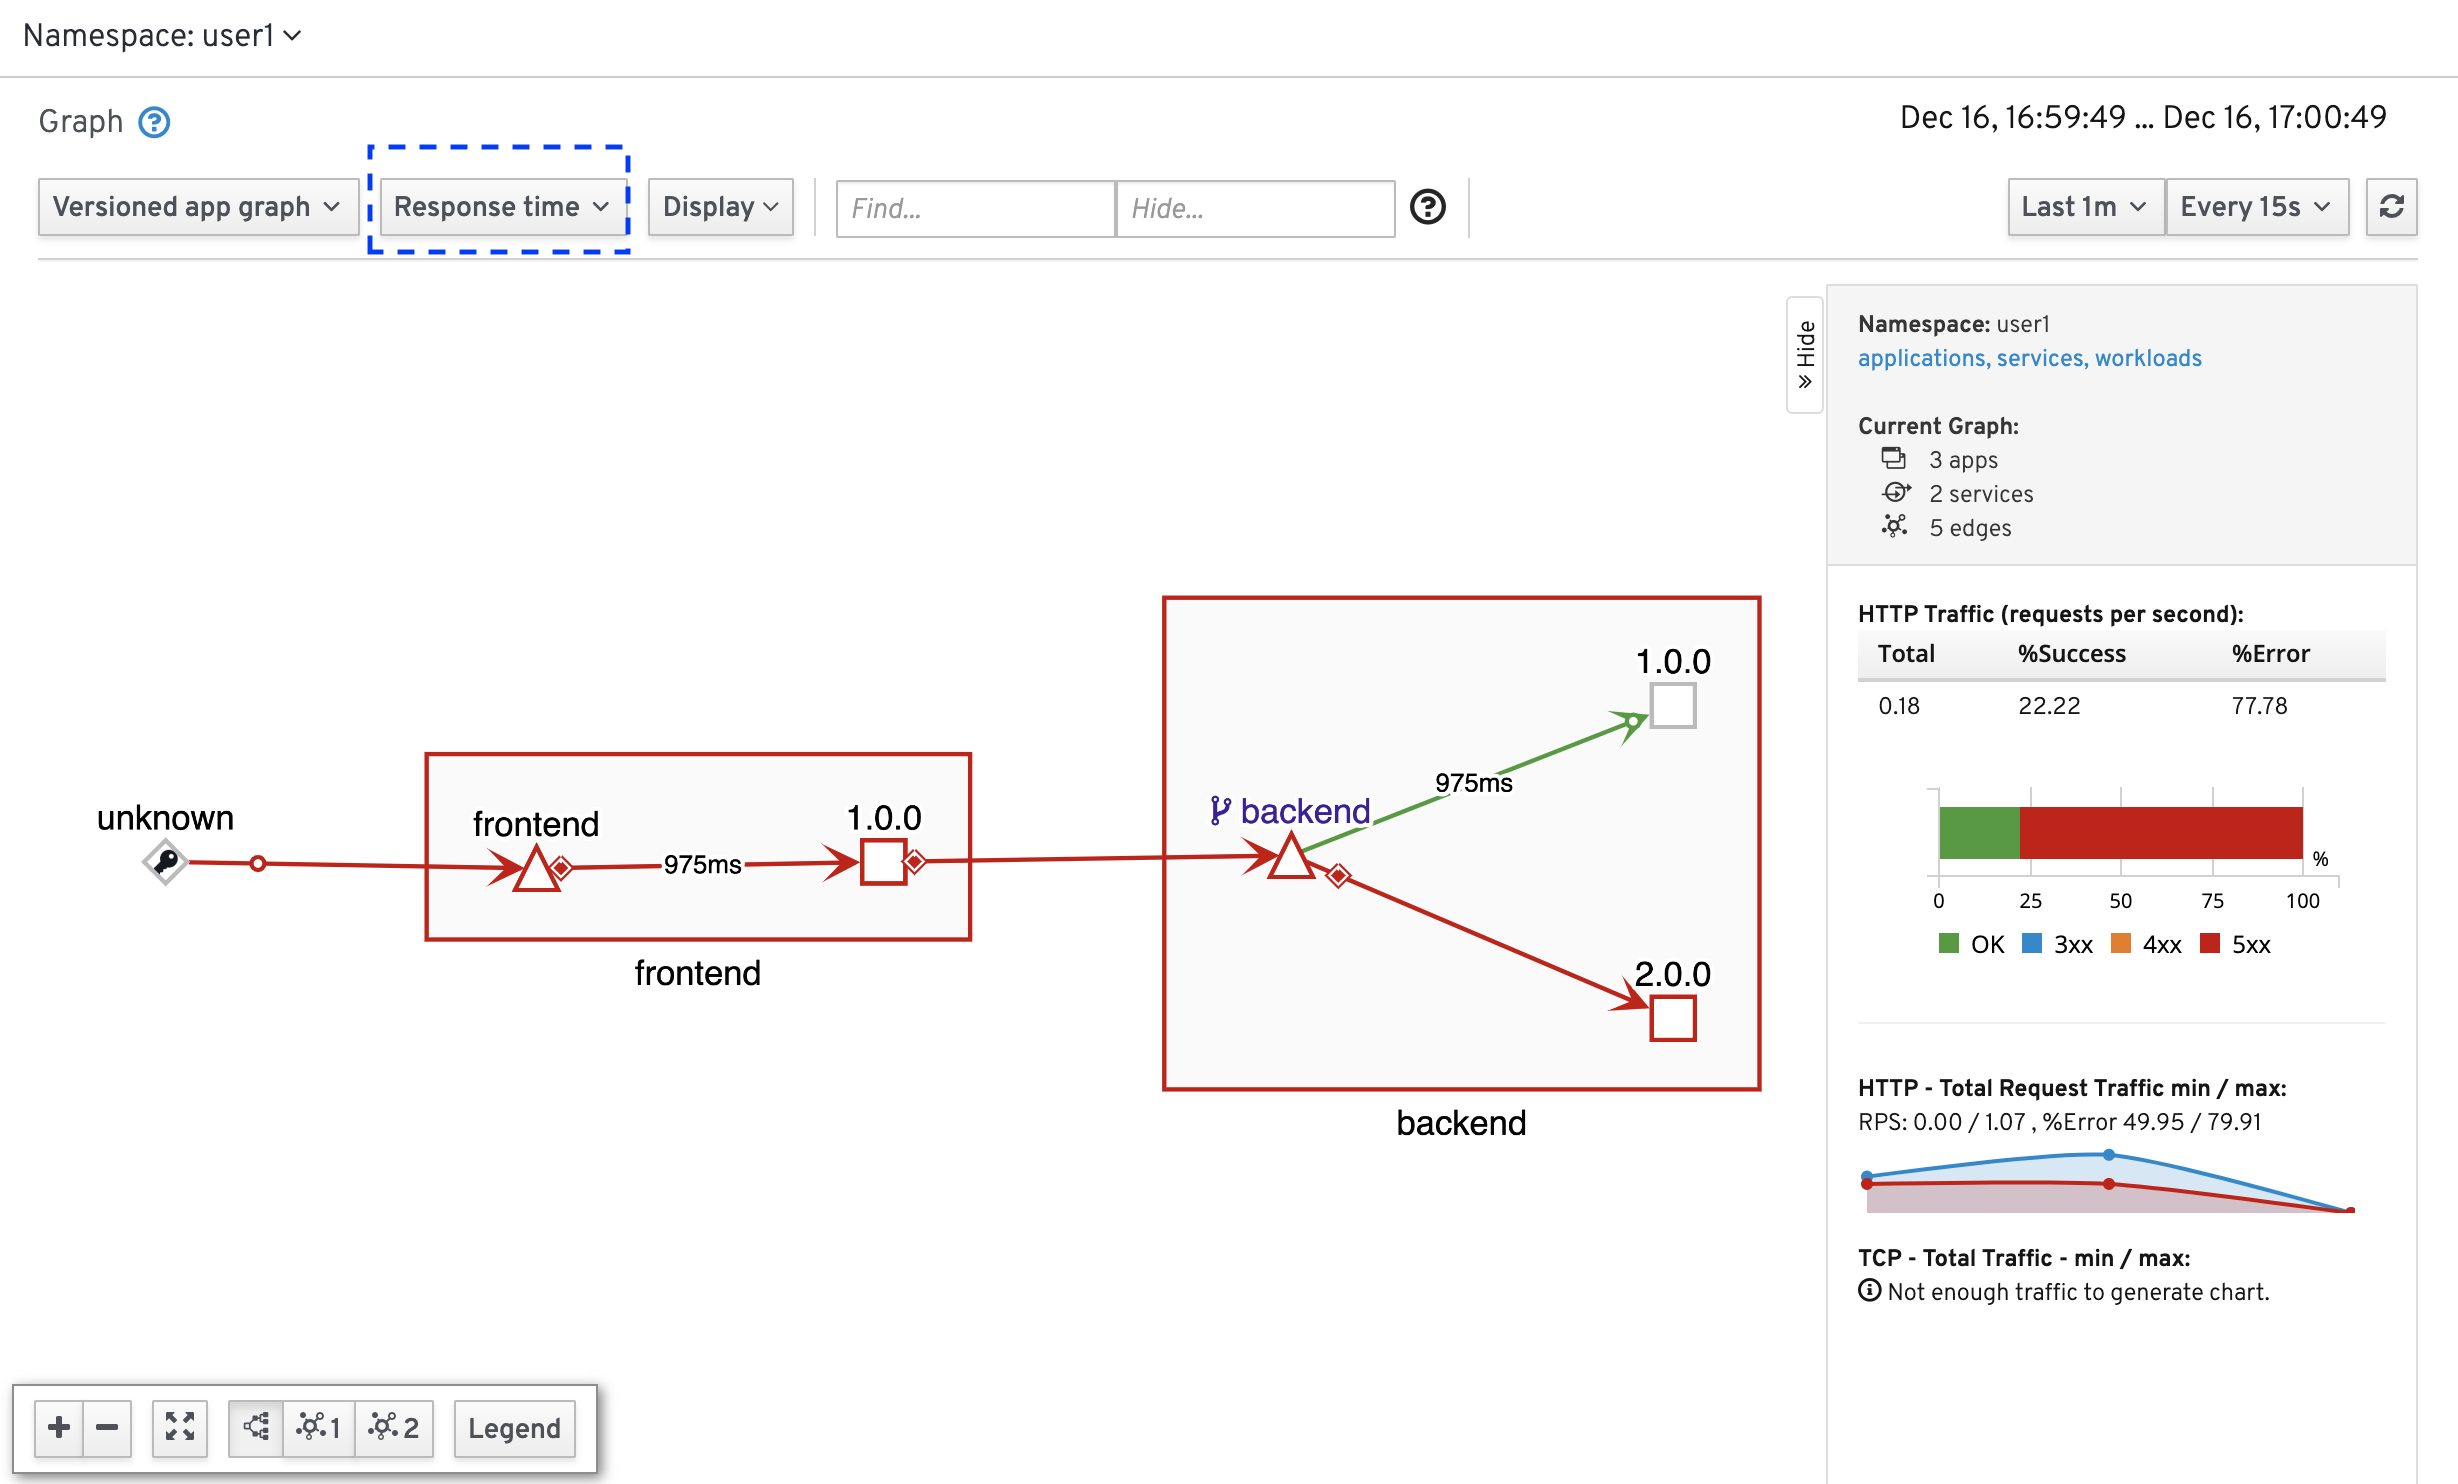
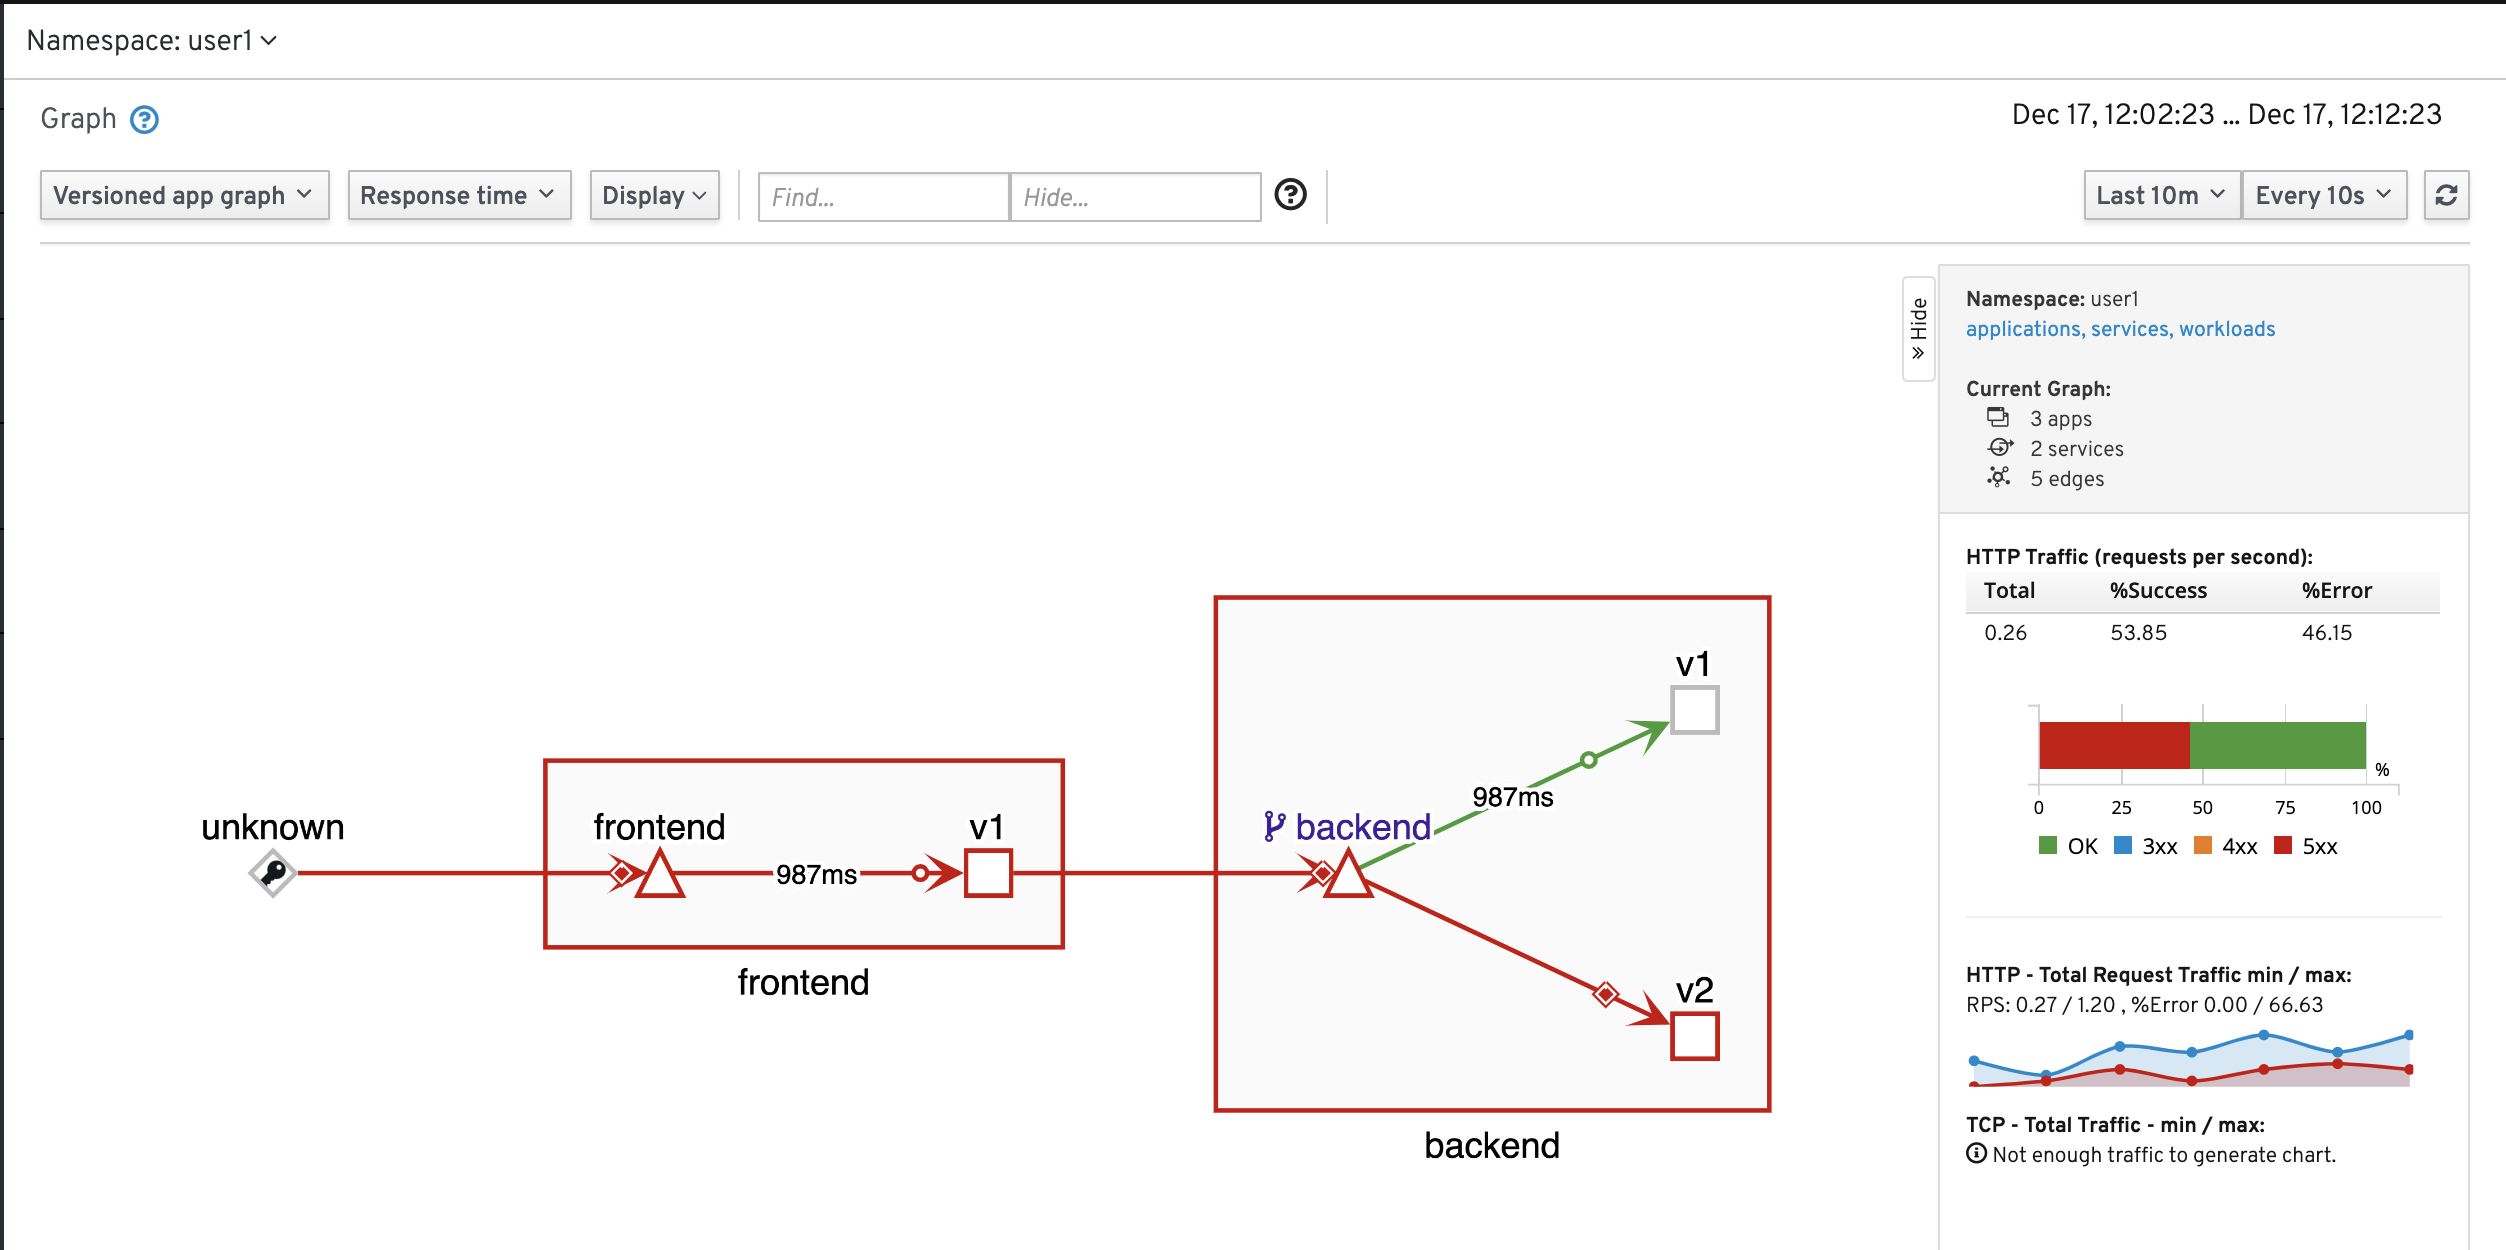
Change version to v1 and v2

diff --git a/labs/03-dynamic-routing.md b/labs/03-dynamic-routing.md
@@ -29,20 +29,20 @@ spec:
   - name: v1
     labels:
       app: backend
-      version: 1.0.0
+      version: v1
     trafficPolicy:
       loadBalancer:
         simple: ROUND_ROBIN
   - name: v2
     labels:
       app: backend
-      version: 2.0.0
+      version: v2
     trafficPolicy:
       loadBalancer:
         simple: ROUND_ROBIN
 ```
 ### Virtual Service
-Review the following Istio's  virtual service configuration file [virtual-service-backend-v1-v2-80-20.yml](../istio-files/virtual-service-backend-v1-v2-80-20.yml) to route 80% of traffic to version 1.0.0 and 20% of traffic to version 2.0.0
+Review the following Istio's  virtual service configuration file [virtual-service-backend-v1-v2-80-20.yml](../istio-files/virtual-service-backend-v1-v2-80-20.yml) to route 80% of traffic to version v1 and 20% of traffic to version v2
 
 ```
 apiVersion: networking.istio.io/v1alpha3
@@ -91,15 +91,19 @@ Sample output
 
 ```
 ...
-Backend:2.0.0 Elapsed Time:5.873382 sec
-Backend:1.0.0 Elapsed Time:0.868324 sec
-Backend:1.0.0 Elapsed Time:0.813940 sec
-Backend:1.0.0 Elapsed Time:0.793226 sec
-Backend:1.0.0 Elapsed Time:0.849677 sec
+Backend:v1, Response Code: 200, Host:backend-v1-6ddf9c7dcf-pppzc, Elapsed Time:0.890935 sec
+Backend:v1, Response Code: 200, Host:backend-v1-6ddf9c7dcf-pppzc, Elapsed Time:1.084210 sec
+Backend:v1, Response Code: 200, Host:backend-v1-6ddf9c7dcf-pppzc, Elapsed Time:0.952610 sec
+Backend:v2, Response Code: 200, Host:backend-v2-7655885b8c-5spv4, Elapsed Time:5.823382 sec
+Backend:v2, Response Code: 200, Host:backend-v2-7655885b8c-5spv4, Elapsed Time:5.805121 sec
+Backend:v1, Response Code: 200, Host:backend-v1-6ddf9c7dcf-pppzc, Elapsed Time:0.778479 sec
+Backend:v1, Response Code: 200, Host:backend-v1-6ddf9c7dcf-pppzc, Elapsed Time:0.856198 sec
+Backend:v2, Response Code: 200, Host:backend-v2-7655885b8c-5spv4, Elapsed Time:5.993813 sec
+Backend:v1, Response Code: 200, Host:backend-v1-6ddf9c7dcf-pppzc, Elapsed Time:0.787655 sec
 ========================================================
 Total Request: 50
-Version 1.0.0: 43
-Version 2.0.0: 7
+Version v1: 39
+Version v2: 11
 ========================================================
 ```
 You can also check this splitting traffic with Kiali console.
@@ -146,14 +150,14 @@ virtualservice.networking.istio.io/backend-virtual-service created
 
 ```
 
-Test again with cURL and check for 504 response code from backend version 2.0.0
+Test again with cURL and check for 504 response code from backend version v2
 ```
 curl $FRONTEND_URL
 ```
 
 Result
 ```
-Frontend version: 1.0.0 => [Backend: http://backend:8080, Response: 504, Body: upstream request timeout]
+Frontend version: v1 => [Backend: http://backend:8080, Response: 504, Body: upstream request timeout]
 ```
 
 Run [run-50.shj](../scripts/run-50.sh)
@@ -163,12 +167,19 @@ scripts/run-50.sh
 
 Sample output
 ```
-Backend:, Response Code: 504, Host:, Elapsed Time:3.878352 sec
-Backend:1.0.0, Response Code: 200, Host:backend-v1-84b98cf86c-hjf65, Elapsed Time:1.558571 sec
-Backend:, Response Code: 504, Host:, Elapsed Time:3.556231 sec
-Backend:1.0.0, Response Code: 200, Host:backend-v1-84b98cf86c-hjf65, Elapsed Time:1.681229 sec
-Backend:1.0.0, Response Code: 200, Host:backend-v1-84b98cf86c-hjf65, Elapsed Time:1.573688 sec
-Backend:, Response Code: 504, Host:, Elapsed Time:4.295051 sec
+...
+Backend:v1, Response Code: 200, Host:backend-v1-6ddf9c7dcf-pppzc, Elapsed Time:0.774024 sec
+Backend:, Response Code: 504, Host:, Elapsed Time:3.193873 sec
+Backend:v1, Response Code: 200, Host:backend-v1-6ddf9c7dcf-pppzc, Elapsed Time:0.787584 sec
+Backend:, Response Code: 504, Host:, Elapsed Time:3.724406 sec
+Backend:, Response Code: 504, Host:, Elapsed Time:3.147017 sec
+Backend:, Response Code: 504, Host:, Elapsed Time:3.207459 sec
+========================================================
+Total Request: 50
+Version v1: 25
+Version v2: 0
+========================================================
+...
 ```
 
 Check Graph in Kiali Console with Response time.

diff --git a/labs/01-microservice-deployment.md b/labs/01-microservice-deployment.md
@@ -33,7 +33,7 @@ spec:
     metadata:
       labels:
         app: backend
-        version: 1.0.0
+        version: v1
       annotations:
         sidecar.istio.io/inject: "true"
 ...
@@ -107,9 +107,9 @@ curl $FRONTEND_URL
 
 Sample outout
 ```
-Frontend version: 1.0.0 => [Backend: http://backend:8080, Response: 200, Body: Backend version:1.0.0,Response:200,Host:backend-v1-66f48cff87-gcfxz, Message: Hello World!!]
+Frontend version: v1 => [Backend: http://backend:8080, Response: 200, Body: Backend version:v1,Response:200,Host:backend-v1-6ddf9c7dcf-pppzc, Message: Hello World!!]
 
-# Frontend version 1.0.0 call Backend with URL http://backend:8080
+# Frontend version v1 call Backend with URL http://backend:8080
 # Response code is 200
 # Backend is version 1.0.0 and respond from pod backend-v1-66f48cff87-gcfxz
 # Response message from Backend is Hello World!!
@@ -137,6 +137,6 @@ curl $FRONTEND_URL -s -w "\nElapsed Time:%{time_total}"
 
 Sample output
 ```
-Frontend version: 1.0.0 => [Backend: http://backend:8080, Response: 200, Body: Backend version:2.0.0,Response:200,Host:backend-v2-74f77cd869-jkb52, Message: Hello World!!]
-Elapsed Time:6.132507
+Frontend version: v1 => [Backend: http://backend:8080, Response: 200, Body: Backend version:v2,Response:200,Host:backend-v2-7655885b8c-5spv4, Message: Hello World!!]
+Elapsed Time:6.106281
 ```

diff --git a/labs/02-observability.md b/labs/02-observability.md
@@ -31,10 +31,10 @@ Kiali Login screen
 Move back to the Kiali web console. In the main console select your project. Then in the left-hand panel, Click Graph.
 ![Kiali Main Screen](../images/kiali-main-screen.png)
 
-On the Graph screen, Select version graph and enable animation
+On the Graph screen, Select version graph and enable animation and set to display Requests Precentage
 ![Kiali set graph](../images/kiali-show-animation.png)
 
-To show the capabilities of Kiali, you need to generate some sample data. For this, you can use the microservices application that you deployed earlier.
+To show the capabilities of Kiali Graph, you need to generate some sample data. For this, you can use the microservices application that you deployed earlier.
 
 Run following command on your terminal
 ```
@@ -46,6 +46,10 @@ Expect to see traffic animation on the graph based on traffic that is generated 
 ![Kiali Graph](../images/kiali-graph.png)
 
 Remark that on the right of the screen show the result of requests (OK, 3xx, 4xx, 5xx)
+
+Set Kiali Graph to show Response Time
+
+![](../images/kiali-graph-response-time.png)
 
 ### Explore Service 
 In the left-hand panel, click Services.
